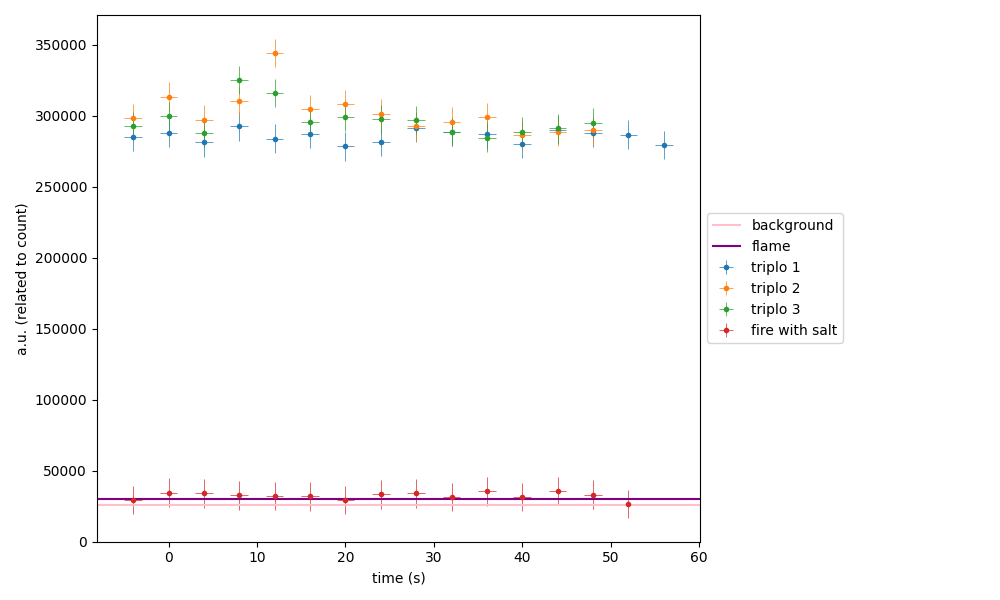
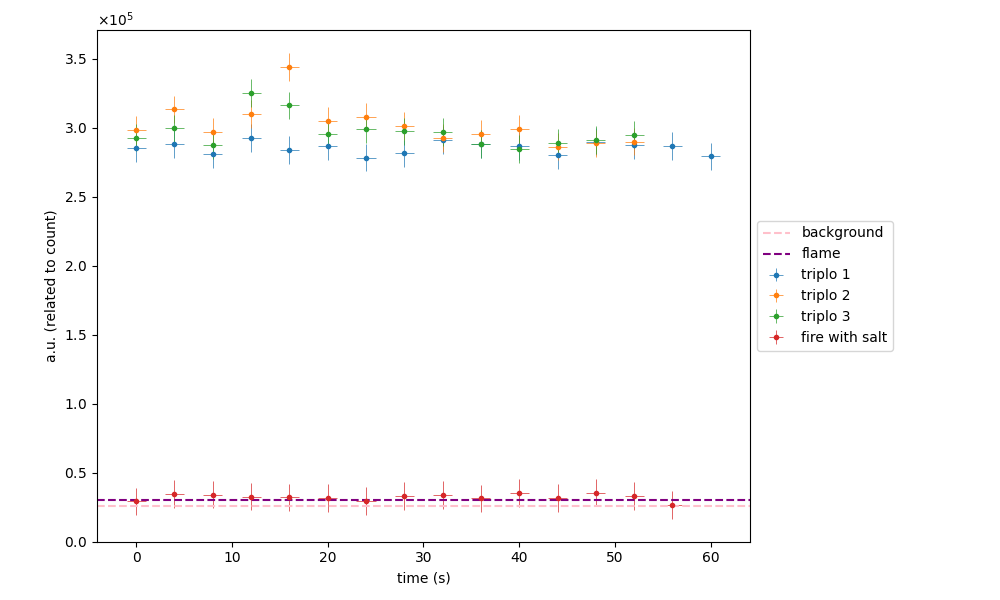
for jellis

diff --git a/object-orientated/package/module.py b/object-orientated/package/module.py
@@ -1,6 +1,12 @@
 import matplotlib.pyplot as plt
+import matplotlib.ticker as ticker
 import numpy as np
 import os
+
+# formatter to put scientific notation on y-axis
+formatter = ticker.ScalarFormatter(useMathText=True)
+formatter.set_scientific(True)
+formatter.set_powerlimits((0, 0))  # Set the limits for using scientific notation
 
 ## contstants
 LAMBDA_MIN = 360.127 # minimal wavelength
@@ -13,7 +19,7 @@ MERCURY = 9
 ## Printing options
 PROGRES = 1
 IGNORE = 2
-debugList = [IGNORE]
+debugList = []
 
 class DataProcessor:
     def __init__(self):
@@ -29,17 +35,28 @@ class DataProcessor:
         
         self.triploNames = {}
         self.triploNames[SODIUM] =  [
-            ("SoFlameWithSlit", "triplo 1"),
-            ("SoFlameWithSlitTwo", "triplo 2"),
-            ("SoFlameWithSlitThree", "triplo 3")
+            "SoFlameWithSlit",
+            "SoFlameWithSlitTwo",
+            "SoFlameWithSlitThree", 
         ]
 
         self.triploNames[MERCURY] = ["fireWithSodium", "two", "third"]
                                      
-
-
         # debug
         self.noSaltIntensties = None
+
+        # structure: data[setup number][column name][frequency index]
+        # e.g. data[1]["background-1"][1] would be the value of the lowest frequency
+        # of the first background measurement that is stored in 1.lab #
+        self.read_data()
+        # due to the nature of the data, there is no distinction between e.g.
+        # firstRun-1 and secondRun-2. This function bundels all spectra with the 
+        # same name into a dictionary: firstRun-1 and firsRun-2 etc go into
+        # newData[setupNumber]["firstRun"] and secondRun-1 and secondRun-2 etc go 
+        # into newData[setupNumber]["secondRun"]
+        self.separate_runs()
+
+        self.get_backgrounds()
 
     @staticmethod
     def print_dbg(identifier, *args, **kwargs):
@@ -120,7 +137,7 @@ class DataProcessor:
             self.create_duploName_dictionaries(setupNumber)
             self.fill_duploName_dictionaries(setupNumber)
 
-
+ 
 
     ## utility funcitons
     @staticmethod
@@ -131,7 +148,8 @@ class DataProcessor:
     def print_duploNames(self):
         for setupNumber in self.newData:
             for duploName in self.newData[setupNumber]:
-                print(f"{setupNumber}, {duploName}")
+                nrSpectra = len(self.newData[setupNumber][duploName].keys())
+                print(f"{setupNumber:>2}, {duploName:<32}: {nrSpectra:>2} runs")
 
     def print_columnNames(self):
         for setupNumber in self.data:
@@ -201,7 +219,9 @@ class DataProcessor:
         plt.ylim(bottom=0)
         plt.legend(loc="center left", bbox_to_anchor=(1, 0.5))
         plt.tight_layout()
-        plt.subplots_adjust(right=0.7) 
+        plt.subplots_adjust(right=0.75, top=0.95)
+        axes = plt.gca() 
+        axes.yaxis.set_major_formatter(formatter)
 
     def plot(self, intensities, label):
         """ Plot intensity vs time.
@@ -230,10 +250,10 @@ class DataProcessor:
         
     def plot_same_time_triplo_spectra(self, setupNumber, timeIndex):
         lambdaArray = self.data[1]["λ"] # all lambda arrays are the same
-        for runName, label in self.triploNames[setupNumber]:
+        for runNumber, runName in enumerate(self.triploNames[setupNumber]):
             intensityArray = self.newData[setupNumber][runName][timeIndex]
             plt.scatter(lambdaArray, intensityArray, **self.lineStyleKeywords,
-                        label=label)
+                        label=f"triplo {runNumber}")
         plt.xlabel(f"wavelength (nm)")
         plt.ylabel(self.ylabel)
         plt.xlim(587, 592)
@@ -260,7 +280,6 @@ class DataProcessor:
         plt.xlabel("λ (nm)")
         plt.ylabel("a.u. (related to count)")
         plt.xlim(LAMBDA_MIN, LAMBDA_MAX)
-        plt.show()
     
 
     def plot_sodium(self):  
@@ -277,10 +296,10 @@ class DataProcessor:
         self.plot(fireWithSaltIntensities, "flame with salt")
         # self.plot(self.noSaltIntensties, "no salt (debug)")
         plt.axhline(self.sodiumLampAndFlameLight, label="sodium lamp and flame",
-                    color="purple")
-        plt.axhline(self.background, label="background", color="pink")
-        plt.axhline(self.fireLight, label="flame", color="grey")
-        plt.axhline(self.sodiumLight, label="lamp", color="brown")
+                    color="purple", linestyle='--')
+        plt.axhline(self.background, label="background", color="pink", linestyle='--')
+        plt.axhline(self.fireLight, label="flame", color="grey", linestyle='--')
+        plt.axhline(self.sodiumLight, label="lamp", color="brown", linestyle='--')
         
         self.fix_layout()
         self.make_directory("../report-plots")
@@ -300,10 +319,10 @@ class DataProcessor:
         self.plot(fireWithSaltIntensities, "flame with salt")
         
         plt.axhline(self.sodiumLampAndFlameLight, label="sodium lamp and flame",
-                    color="purple")
-        plt.axhline(self.background, label="background", color="pink")
-        plt.axhline(self.fireLight, label="flame", color="grey")
-        plt.axhline(self.sodiumLight, label="lamp", color="brown")
+                    color="purple", linestyle='--')
+        plt.axhline(self.background, label="background", color="pink", linestyle='--')
+        plt.axhline(self.fireLight, label="flame", color="grey", linestyle='--')
+        plt.axhline(self.sodiumLight, label="lamp", color="brown", linestyle='--')
         
         self.fix_layout()
         self.make_directory("../report-plots")
@@ -321,8 +340,8 @@ class DataProcessor:
         fireWithSaltIntensities = self.get_intensities(self.newData[11]["fireWithSodium"])
         self.plot(fireWithSaltIntensities, "fire with salt")
         
-        plt.axhline(self.background, label="background", color="pink")
-        plt.axhline(self.fireLight, label="flame", color="purple")
+        plt.axhline(self.background, label="background", color="pink", linestyle='--')
+        plt.axhline(self.fireLight, label="flame", color="purple", linestyle='--')
         
         self.fix_layout()
         self.make_directory("../report-plots")
@@ -376,7 +395,6 @@ class DataProcessor:
         plt.ylabel(f"intensity")
         DataProcessor.make_directory(f"../plots/intensities")
         plt.savefig(f"../plots/intensities/{label}.png")
-        plt.show()
         plt.clf() #clear figure
 
     def process_data(self):

diff --git a/object-orientated/main.py b/object-orientated/main.py
@@ -5,20 +5,7 @@ from package import * # also imports the capital case ENUMS
 def main():
     # plots are plotted in folder "report-plots" #
 
-    processor = DataProcessor()
-    # structure: data[setup number][column name][frequency index]
-    # e.g. data[1]["background-1"][1] would be the value of the lowest frequency
-    # of the first background measurement that is stored in 1.lab
-    processor.read_data()
-                            
-    # due to the nature of the data, there is no distinction between e.g.
-    # firstRun-1 and secondRun-2. This function bundels all spectra with the 
-    # same name into a dictionary: firstRun-1 and firsRun-2 etc go into
-    # newData[setupNumber]["firstRun"] and secondRun-1 and secondRun-2 etc go 
-    # into newData[setupNumber]["secondRun"]
-    processor.separate_runs()  
-
-    processor.get_backgrounds()  
+    processor = DataProcessor() 
 
     # plot first spectrum where no salt was added to the fire yet for all
     # three duplo runs
@@ -26,9 +13,8 @@ def main():
     # plot 5th spectrum where the salt is blocking the light
     processor.plot_same_time_triplo_spectra(SODIUM, 5)
 
-    processor.plot_mercury_spectra()
-    for i in range(10):
-        processor.plot_spectrum(FIRE_ONLY, "fireOnly", i + 1)
+    # processor.plot_mercury_spectra()
+    processor.plot_spectrum(FIRE_ONLY, "fireOnly", 5)
 
 
 

diff --git a/object-orientated/final.py b/object-orientated/final.py
@@ -1,0 +1,35 @@
+#!/bin/python3
+
+from package import *
+
+formatter = ticker.ScalarFormatter(useMathText=True)
+formatter.set_scientific(True)
+formatter.set_powerlimits((0, 0))  # Set the limits for using scientific notation
+
+self = DataProcessor()
+
+means = {}
+errors = {}
+
+for setupNr in [SODIUM, SODIUM_MAGNET, MERCURY]:
+    means[setupNr] = {}
+    errors[setupNr] = {}
+
+
+
+# Sodium - no salt
+intensities = np.array([
+    self.get_intensities(self.newData[SODIUM]["SoFlameWithSlit"])[0],
+    self.get_intensities(self.newData[SODIUM]["SoFlameWithSlitTwo"])[0],
+    self.get_intensities(self.newData[SODIUM]["SoFlameWithSlitThree"])[0],
+])
+
+mean = intensities.mean()
+error = np.std(intensities, ddof=1) # sample standard deviation
+means[SODIUM]["without-salt"] = mean
+errors[SODIUM]["with-salt"] = error
+
+print(f"mean: {mean:.4e}, error: {error:.4e}")
+
+
+

diff --git a/object-orientated/test.py b/object-orientated/test.py
@@ -2,9 +2,7 @@
 
 from package import *
 
-processor = DataProcessor()
-processor.read_data()
-processor.separate_runs()  
+processor = DataProcessor() 
 
 print(processor.newData[1]["background"][1])
 

diff --git a/object-orientated/show.py b/object-orientated/show.py
@@ -3,8 +3,6 @@
 from package import *
 
 processor = DataProcessor() 
-processor.read_data()
-processor.separate_runs()
 
 processor.print_duploNames()
 # print_columnNames(data)
